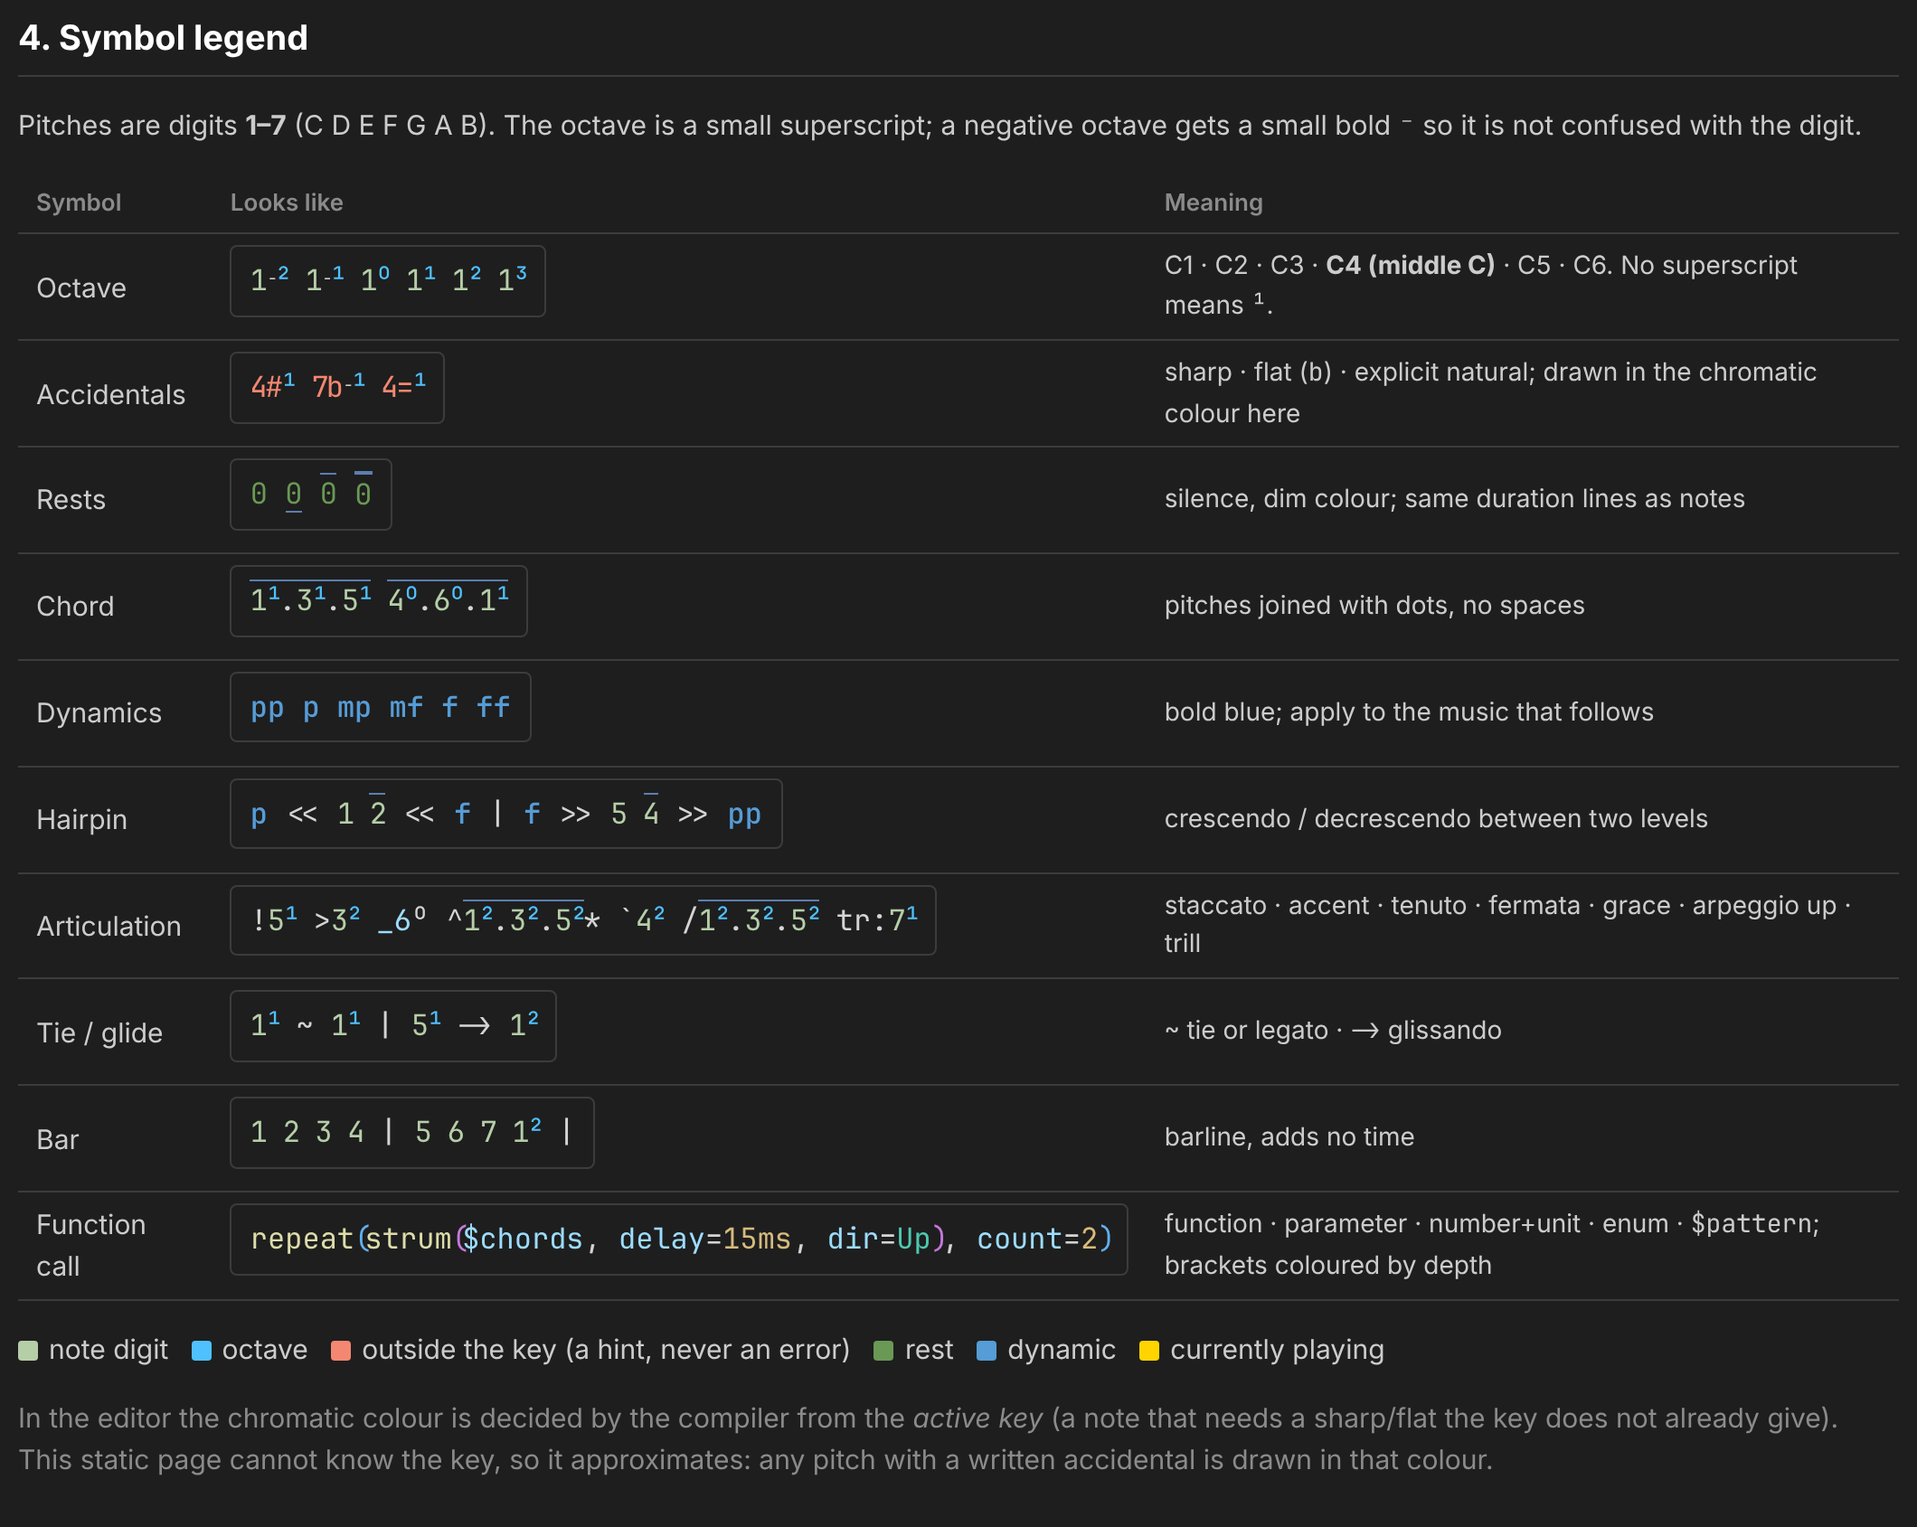
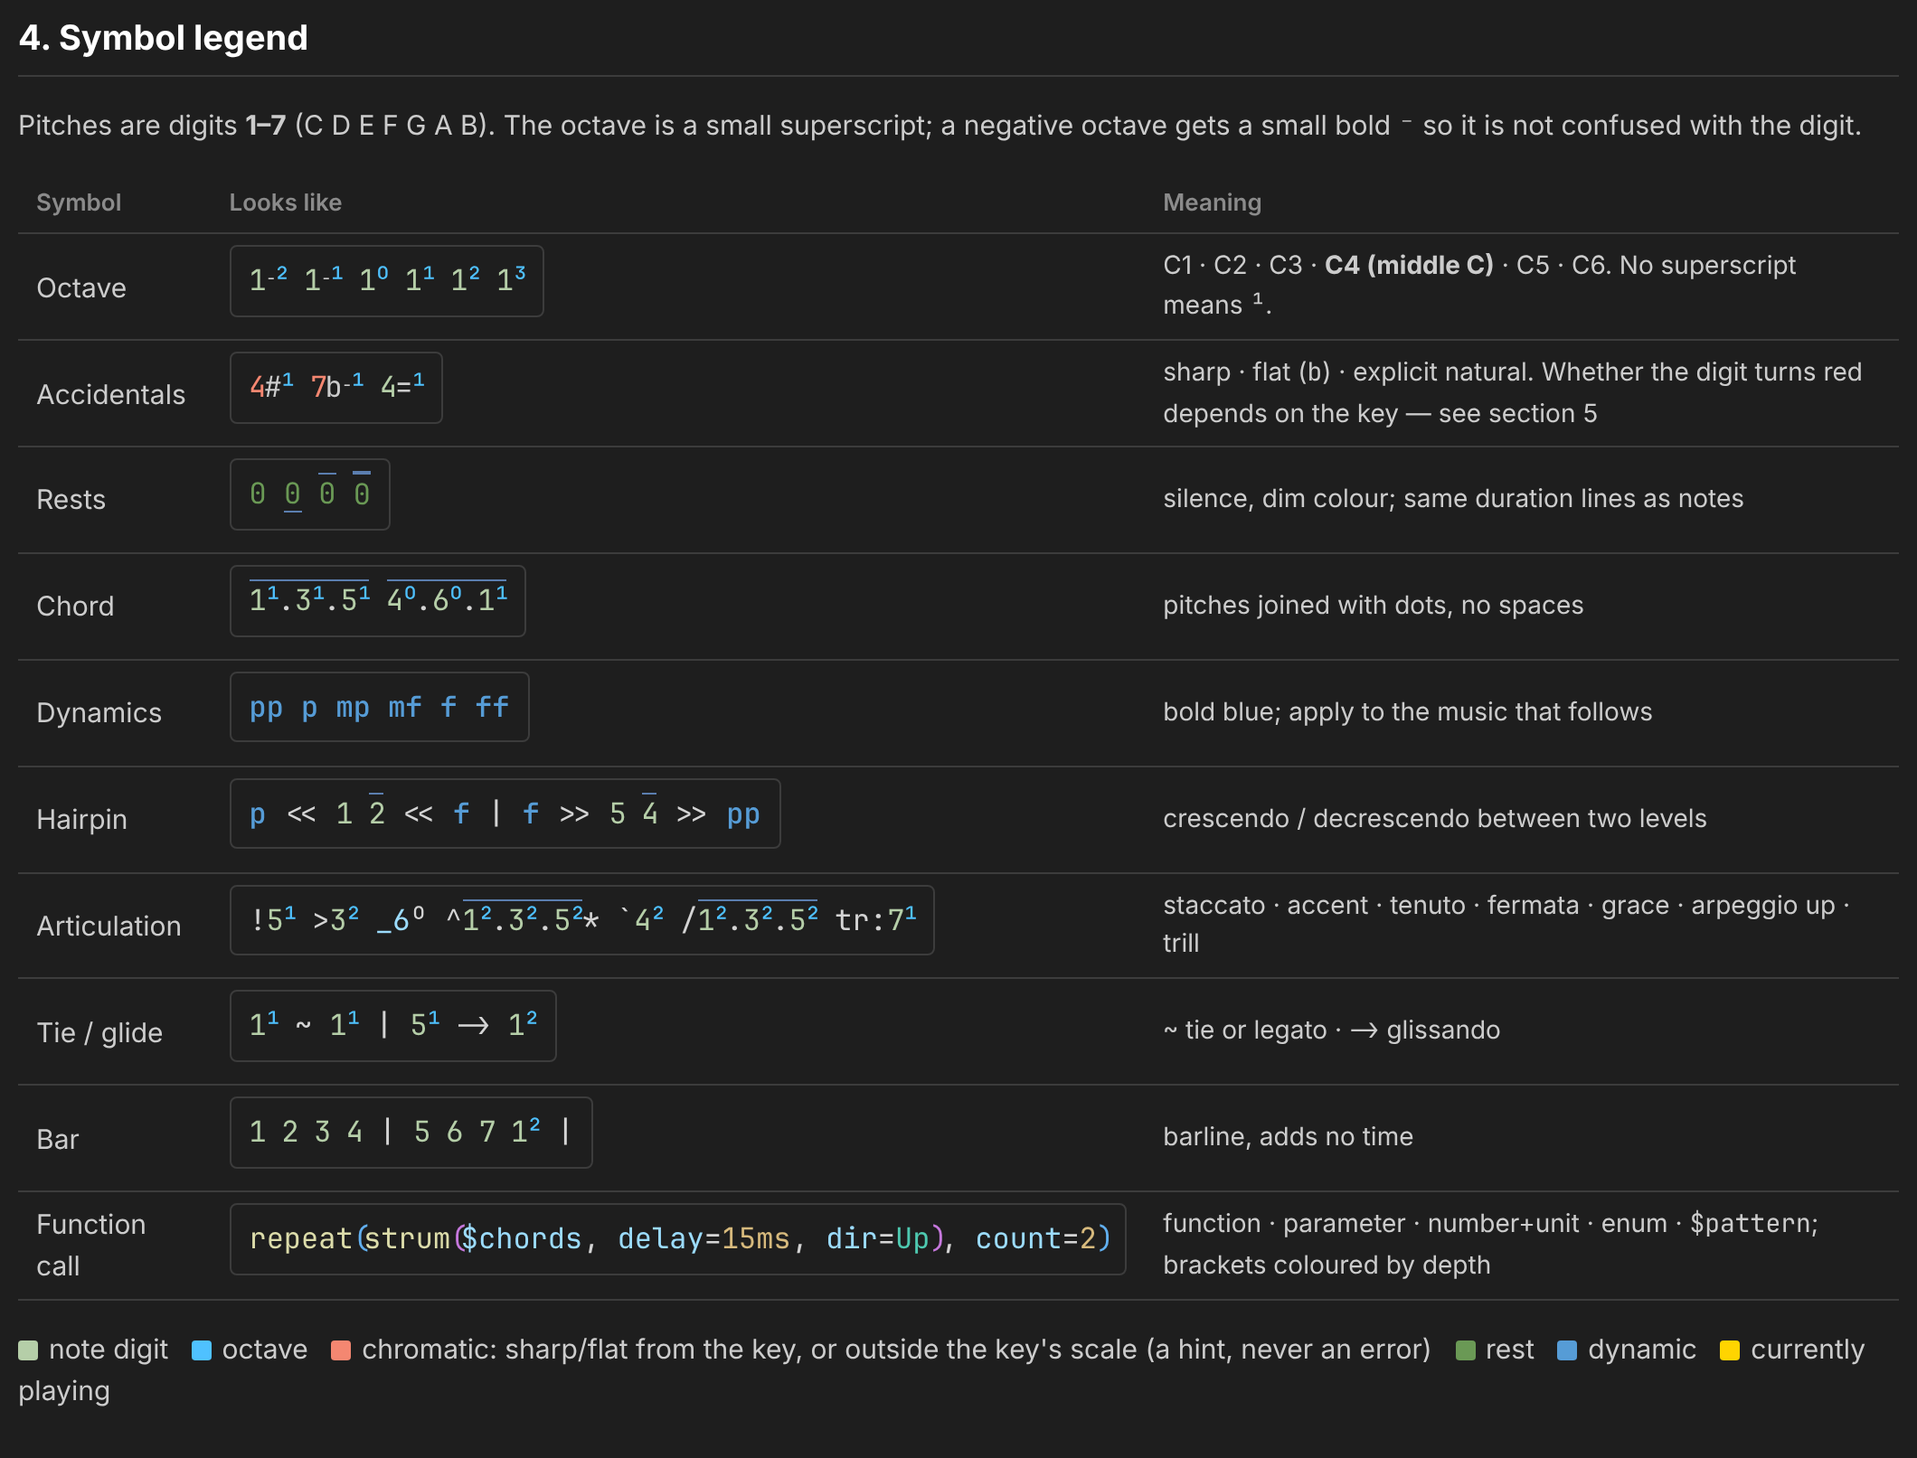
Fix the chromatic colour rule: it depends on the key, not on "outside the key"
The guide said pitches outside the active key are drawn in the chromatic
colour. The compiler's rule (LanguageService.Highlight) is: a digit is
chromatic when it has no written accidental but the key signature alters
that degree, or when a written accidental lands outside the key's scale; an
accidental that only restates the key stays normal. Only the digit is
coloured.

The demo page now implements this rule with key() and section scoping, and
was cross-checked against the compiler on all 30 keys (840 pitches, no
differences). Adds a section and screenshots for the rule and updates the
README.

Claude-Session: https://claude.ai/code/session_01RCWE2trzKRHysnBGbgQNrL

diff --git a/notation/index.html b/notation/index.html
@@ -76,7 +76,7 @@
   <table>
     <tr><th>Symbol</th><th>Looks like</th><th>Meaning</th></tr>
     <tr><td>Octave</td><td><code class="mdsl-code mdsl-inline" data-music="1⁻² 1⁻¹ 1⁰ 1¹ 1² 1³"></code></td><td class="note">C1 · C2 · C3 · <strong>C4 (middle C)</strong> · C5 · C6. No superscript means <code>¹</code>.</td></tr>
-    <tr><td>Accidentals</td><td><code class="mdsl-code mdsl-inline" data-music="4#¹ 7b⁻¹ 4=¹"></code></td><td class="note">sharp · flat (<code>b</code>) · explicit natural; drawn in the chromatic colour here</td></tr>
+    <tr><td>Accidentals</td><td><code class="mdsl-code mdsl-inline" data-music="4#¹ 7b⁻¹ 4=¹"></code></td><td class="note">sharp · flat (<code>b</code>) · explicit natural. Whether the digit turns red depends on the key — see section 5</td></tr>
     <tr><td>Rests</td><td><code class="mdsl-code mdsl-inline" data-music="0 (0) [0] [[0]]"></code></td><td class="note">silence, dim colour; same duration lines as notes</td></tr>
     <tr><td>Chord</td><td><code class="mdsl-code mdsl-inline" data-music="[1¹.3¹.5¹] [4⁰.6⁰.1¹]"></code></td><td class="note">pitches joined with dots, no spaces</td></tr>
     <tr><td>Dynamics</td><td><code class="mdsl-code mdsl-inline" data-music="pp p mp mf f ff"></code></td><td class="note">bold blue; apply to the music that follows</td></tr>
@@ -88,17 +88,37 @@
   </table>
   <p><span class="swatch" style="background:var(--mu-note)"></span>note digit &nbsp;
      <span class="swatch" style="background:var(--mu-octave)"></span>octave &nbsp;
-     <span class="swatch" style="background:var(--mu-chromatic)"></span>outside the key (a hint, never an error) &nbsp;
+     <span class="swatch" style="background:var(--mu-chromatic)"></span>chromatic: sharp/flat from the key, or outside the key's scale (a hint, never an error) &nbsp;
      <span class="swatch" style="background:var(--mu-rest)"></span>rest &nbsp;
      <span class="swatch" style="background:var(--mu-dynamic)"></span>dynamic &nbsp;
      <span class="swatch" style="background:#ffd400"></span>currently playing</p>
-  <p style="color:var(--fg-dim)">In the editor the chromatic colour is decided by the compiler from the <em>active key</em> (a note that needs a sharp/flat the key does not already give). This static page cannot know the key, so it approximates: any pitch with a written accidental is drawn in that colour.</p>
 
-  <h2>5. A fuller example</h2>
+  <h2>5. Chromatic colour: what exactly turns red</h2>
+  <p>The red digit is <strong>not</strong> "a note that is outside the key", and it is not "any note with a sharp". The editor asks the compiler, and the compiler applies this rule to every pitch (only the <em>digit</em> is coloured; the <code>#</code>, <code>b</code>, <code>=</code> mark and the octave keep their own colours):</p>
+  <table>
+    <tr><th>Written</th><th>Red when…</th><th>Example in G major (F is F♯)</th></tr>
+    <tr><td>no accidental</td><td class="note">the key signature <strong>alters</strong> that degree (the sharp/flat is inherited from the key)</td><td class="note">plain <code>4</code> = F♯ → <strong>red</strong>; plain <code>5</code> = G → normal</td></tr>
+    <tr><td>with <code>#</code> <code>b</code> <code>=</code></td><td class="note">the sounding pitch is <strong>outside the key's scale</strong></td><td class="note"><code>4=</code> (F), <code>1#</code> (C♯), <code>2#</code> (D♯) → <strong>red</strong></td></tr>
+    <tr><td>with <code>#</code> <code>b</code> <code>=</code></td><td class="note">never, if it only <strong>restates</strong> a pitch the key already has</td><td class="note"><code>4#</code> (F♯) and <code>7=</code> (B) → normal</td></tr>
+  </table>
+  <div class="two">
+    <div><p class="cap">G major — <code>key(5, major)</code></p><div class="mdsl-code" data-src="gmajor" data-mode="lines"></div></div>
+    <div><p class="cap">C major — no sharps or flats in the key</p><div class="mdsl-code" data-src="cmajor" data-mode="lines"></div></div>
+  </div>
+  <ul>
+    <li>In <strong>C major</strong> plain notes are never red; only accidentals that leave the scale are (<code>4#</code>, <code>7b</code>).</li>
+    <li>In <strong>G major</strong> every plain <code>4</code> is red, because it sounds as F♯ by the key signature, while a written <code>4#</code> is normal.</li>
+    <li><code>section { key(…) }</code> changes the key for that passage only; after the closing brace the previous key applies again.</li>
+    <li>With a track option <code>transpose=N</code> the colours follow the <em>sounding</em> key: in C major with <code>transpose=2</code> (it sounds as D major) the notes <code>3</code> and <code>7</code> are red. This page does not model track transpose.</li>
+    <li>Notes that are playing are drawn yellow instead, whatever their colour.</li>
+  </ul>
+  <p style="color:var(--fg-dim)">This is the rule of the compiler's semantic highlighting. It was checked against the compiler on all 30 major and natural-minor keys with every degree written plain, <code>#</code>, <code>b</code> and <code>=</code> (840 pitches, no differences).</p>
+
+  <h2>6. A fuller example</h2>
   <p>Two parts with dynamics, hairpins, articulation and chords (the <code>notation-v4</code> example).</p>
   <div class="mdsl-code" data-src="v4" data-mode="lines"></div>
 
-  <h2>6. Switching it on and off</h2>
+  <h2>7. Switching it on and off</h2>
   <ul>
     <li><strong>VS Code / Cursor:</strong> command <em>Music DSL: Toggle Duration Brackets as Lines</em>, or setting <code>musicDsl.durationLines.enabled</code>.</li>
     <li><strong>Web / Android editor:</strong> command palette → the duration-brackets toggle (stored as <code>musicdsl.compactBrackets</code> on the device).</li>
@@ -107,6 +127,22 @@
   </ul>
 </main>
 
+<script type="text/x-mdsl" id="gmajor">
+key(5, major)
+track a {
+  5 6 7 1² 2² |
+  4 4# 4= |
+  1# 2# 7= 7b |
+}
+</script>
+<script type="text/x-mdsl" id="cmajor">
+key(1, major)
+track a {
+  5 6 7 1² 2² |
+  4 4# 4= |
+  1# 2# 7= 7b |
+}
+</script>
 <script type="text/x-mdsl" id="song">
 key(1, major)
 meter(4/4)
@@ -233,10 +269,36 @@ function lineStyle(under, over) {
 }
 
 /* ===== tokenizer (display colouring only; the compiler is the source of truth) ===== */
+/* ===== chromatic colour: the compiler's rule (LanguageService.Highlight), for notes without track transpose ===== */
+var NATURAL = [0, 2, 4, 5, 7, 9, 11];
+var MAJOR_KEYS = { '1b': -7, '5b': -6, '2b': -5, '6b': -4, '3b': -3, '7b': -2, '4': -1, '1': 0, '5': 1, '2': 2, '6': 3, '3': 4, '7': 5, '4#': 6, '1#': 7 };
+var MINOR_KEYS = { '6b': -7, '3b': -6, '7b': -5, '4': -4, '1': -3, '5': -2, '2': -1, '6': 0, '3': 1, '7': 2, '4#': 3, '1#': 4, '5#': 5, '2#': 6, '6#': 7 };
+function signature(count) {
+  var order = count > 0 ? [3, 0, 4, 1, 5, 2, 6] : [6, 2, 5, 1, 4, 0, 3], r = [0, 0, 0, 0, 0, 0, 0];
+  for (var i = 0; i < Math.abs(count); i++) r[order[i]] = count > 0 ? 1 : -1;
+  return r;
+}
+function keyFromText(t) {   // text right after the word "key", starting at "("
+  var m = /^\(\s*([1-7])\s*([#b])?\s*(?:,\s*(major|minor))?\s*\)/.exec(t);
+  if (!m) return null;
+  var table = m[3] === 'minor' ? MINOR_KEYS : MAJOR_KEYS, count = table[m[1] + (m[2] || '')];
+  return count === undefined ? null : signature(count);
+}
+/* true = draw the digit in the chromatic colour.
+   - no written accidental: red only if the key signature alters that degree (plain 4 in G major = F#)
+   - written accidental: red only if the sounding pitch is NOT in the key's scale (4=, 1#, 2# in G major);
+     an accidental that just restates the key (4# in G major) stays normal */
+function isChromatic(key, degree, acc) {
+  var d = degree - 1, written = acc === '#' ? 1 : acc === 'b' ? -1 : acc === '=' ? 0 : null;
+  var pc = (NATURAL[d] + (written !== null ? written : key[d]) + 12) % 12, inScale = false;
+  for (var i = 0; i < 7; i++) if ((NATURAL[i] + key[i] + 12) % 12 === pc) inScale = true;
+  if (!inScale) return true;
+  return written === null && key[d] !== 0;
+}
 var KEYWORDS = new Set(['track', 'def', 'key', 'meter', 'tempo', 'include', 'section', 'loop', 'from', 'to', 'config', 'let', 'use', 'soundfont', 'mix', 'mixpart', 'channel', 'bus', 'master', 'render', 'stem', 'major', 'minor']);
 var SUP = '⁰¹²³⁴⁵⁶⁷⁸⁹';
 function tokenize(t) {
-  var out = [], i = 0, stack = 0;
+  var out = [], i = 0, stack = 0, key = [0, 0, 0, 0, 0, 0, 0], keyStack = [];
   function push(s, e, cls, extra) { var o = { s: s, e: e, cls: cls }; if (extra) for (var k in extra) o[k] = extra[k]; out.push(o); }
   function prevChar(from) { var p = from - 1; while (p >= 0 && /\s/.test(t[p])) p--; return p >= 0 ? t[p] : ''; }
   var lastNote = false;
@@ -248,6 +310,7 @@ function tokenize(t) {
     if (/[A-Za-z_]/.test(c)) {
       var j = i + 1; while (j < t.length && /[A-Za-z0-9_]/.test(t[j])) j++;
       var word = t.slice(i, j), next = t[j], pc = prevChar(i), cls;
+      if (word === 'key' && next === '(') { var kk = keyFromText(t.slice(j)); if (kk) key = kk; }
       if (word === 'tr' && next === ':') { push(i, j + 1, 'mu-operator'); i = j + 1; lastNote = false; continue; }
       if (dynamics.has(word) && next !== '=' && pc !== '=') cls = 'mu-dynamic';
       else if (KEYWORDS.has(word) && next !== '=') cls = 'mu-keyword';
@@ -281,11 +344,11 @@ function tokenize(t) {
       if (lead || tupletCount) { push(i, d + 1, 'mu-number'); i = d + 1; lastNote = false; continue; }
       if (digit === '0') { push(i, d + 1, 'sem-rest'); i = d + 1; lastNote = false; continue; }
       if (!acc && !sup && !minus && prevChar(i) === '=') { push(i, d + 1, 'mu-number'); i = d + 1; lastNote = false; continue; }
-      push(i, m, 'note', { digit: digit, acc: acc, minus: minus, sup: sup });
+      push(i, m, 'note', { digit: digit, acc: acc, minus: minus, sup: sup, chroma: isChromatic(key, +digit, acc) });
       i = m; lastNote = true; continue;
     }
-    if (c === '(' || c === '[' || c === '{') { push(i, i + 1, 'bracket', { depth: stack }); stack++; i++; lastNote = false; continue; }
-    if (c === ')' || c === ']' || c === '}') { stack = Math.max(0, stack - 1); push(i, i + 1, 'bracket', { depth: stack }); i++; lastNote = true; continue; }
+    if (c === '(' || c === '[' || c === '{') { if (c === '{') keyStack.push(key); push(i, i + 1, 'bracket', { depth: stack }); stack++; i++; lastNote = false; continue; }
+    if (c === ')' || c === ']' || c === '}') { if (c === '}' && keyStack.length) key = keyStack.pop(); stack = Math.max(0, stack - 1); push(i, i + 1, 'bracket', { depth: stack }); i++; lastNote = true; continue; }
     var two = t.slice(i, i + 2);
     if (two === '<<' || two === '>>' || two === '->') { push(i, i + 2, 'mu-operator'); i += 2; lastNote = false; continue; }
     push(i, i + 1, 'mu-operator'); lastNote = (c === '*' ); i++;
@@ -304,10 +367,8 @@ function tokenHtml(tok, text, hideSet) {
     return '<span class="sem-bracket sem-depth-' + (tok.depth % 5) + (h ? ' mdsl-hide' : '') + '">' + esc(s) + '</span>';
   }
   if (tok.cls === 'note') {
-    var chroma = tok.acc && tok.acc !== '=' ? true : tok.acc === '=';
-    var main = chroma ? 'sem-chromatic' : 'sem-note';
-    var html = '<span class="' + main + '">' + tok.digit + '</span>';
-    if (tok.acc) html += '<span class="' + (chroma ? 'sem-chromatic' : 'sem-note-mark') + '">' + tok.acc + '</span>';
+    var html = '<span class="' + (tok.chroma ? 'sem-chromatic' : 'sem-note') + '">' + tok.digit + '</span>';
+    if (tok.acc) html += '<span class="sem-note-mark">' + tok.acc + '</span>';
     if (tok.minus) html += '<span class="mu-octave-minus">⁻</span>';
     if (tok.sup) html += '<span class="sem-octave">' + tok.sup + '</span>';
     return html;

diff --git a/notation/music-dsl-notation.css b/notation/music-dsl-notation.css
@@ -10,7 +10,8 @@
  *   superscript octave digits        -> octave colour, tightened spacing
  *   negative octave sign  ⁻          -> drawn small and bold, attached to the digit
  *   rest 0                           -> dim colour
- *   pitch outside the active key     -> chromatic colour (a hint, not an error)
+ *   chromatic pitch digit            -> chromatic colour: no written accidental but the key alters the degree,
+ *                                       or a written accidental that lands outside the key's scale (a hint, not an error)
  *   ( ) [ ] { } that are visible     -> coloured by nesting depth
  *
  * Usage: wrap tokens in the classes below (see notation/index.html for a renderer that does it for you).

diff --git a/README.md b/README.md
@@ -125,7 +125,7 @@ The editors (the VS Code / Cursor extension and the web/Android editor) do not s
 | `1⁻¹` (negative octave) | the minus is drawn small and bold in front of a small octave digit |
 | octave digits `¹ ² ³` | octave colour, tightened spacing |
 | rest `0` | dim colour |
-| pitch outside the active key | chromatic colour (a hint, never an error) |
+| a pitch with a sharp/flat from the key, or a written accidental that leaves the key's scale | chromatic colour on the **digit** only (a hint, never an error; [exact rule below](#what-turns-red-the-chromatic-colour)) |
 | function-call `( )` and tuplet `{ }` | stay visible, coloured by nesting depth (5 colours) |
 | dynamics `pp … ff` | bold blue |
 | the note being played | yellow |
@@ -154,6 +154,25 @@ Count the lines: **underline = ÷2, overline = ×2, several lines multiply.**
   <img alt="Legend of pitch, octave, accidental, rest, chord, dynamics, articulation and function-call colours" src="notation/images/04-legend-light.png">
 </picture>
 
+#### What turns red: the chromatic colour
+
+The red digit is **not** "a note outside the key" and not "any note with a sharp". The compiler decides it for every pitch, using the active key. Only the **digit** is coloured; the `#` / `b` / `=` mark and the octave keep their own colours.
+
+| Written | Red when… | Example in G major (`key(5, major)`, F is F♯) |
+|---|---|---|
+| no accidental | the key signature **alters** that degree (the sharp/flat comes from the key) | plain `4` (F♯) → **red**; plain `5` → normal |
+| with `#` `b` `=` | the sounding pitch is **outside the key's scale** | `4=` (F), `1#` (C♯), `2#` (D♯), `7b` → **red** |
+| with `#` `b` `=` | never, if it only **restates** a pitch the key already has | `4#` (F♯), `7=` (B) → normal |
+
+So in C major plain notes are never red, while in G major every plain `4` is. `section { key(…) }` changes the key for that passage only. With a track option `transpose=N` the colours follow the *sounding* key (C major with `transpose=2` reads as D major, so `3` and `7` turn red). Notes that are playing are drawn yellow instead.
+
+Verified against the compiler's semantic highlighting on all 30 major and natural-minor keys × every degree written plain, `#`, `b` and `=` (840 pitches, no differences).
+
+<picture>
+  <source media="(prefers-color-scheme: dark)" srcset="notation/images/05-chromatic-rule-dark.png">
+  <img alt="Chromatic colour rule with G major and C major examples" src="notation/images/05-chromatic-rule-light.png">
+</picture>
+
 **Files in [`notation/`](notation):**
 
 - [`index.html`](notation/index.html) — an interactive page with every example above (Auto / Dark / Light). Download the folder and open it in a browser, or enable GitHub Pages for this repository and open `/notation/`.
@@ -162,7 +181,7 @@ Count the lines: **underline = ÷2, overline = ×2, several lines multiply.**
 
 Turning it on or off: in VS Code / Cursor run *Music DSL: Toggle Duration Brackets as Lines* (setting `musicDsl.durationLines.enabled`); tighter notes and octave marks are `musicDsl.notationSpacing.enabled` and `musicDsl.notationSpacing.octaves`; bracket colours are `musicDsl.colorBlocks` and `musicDsl.blockColors`. The web/Android editor has a matching toggle in its command palette.
 
-The page and screenshots are a reproduction of the editor's drawing rules, not the extension itself. In the real editor the chromatic colour comes from the compiler (it knows the key); the page approximates it by colouring every pitch that has a written accidental.
+The page and screenshots reproduce the editor's drawing rules (they are not the extension itself). The chromatic colouring on the page follows the compiler's rule and was cross-checked against the compiler on all 30 keys.
 
 ---
 
